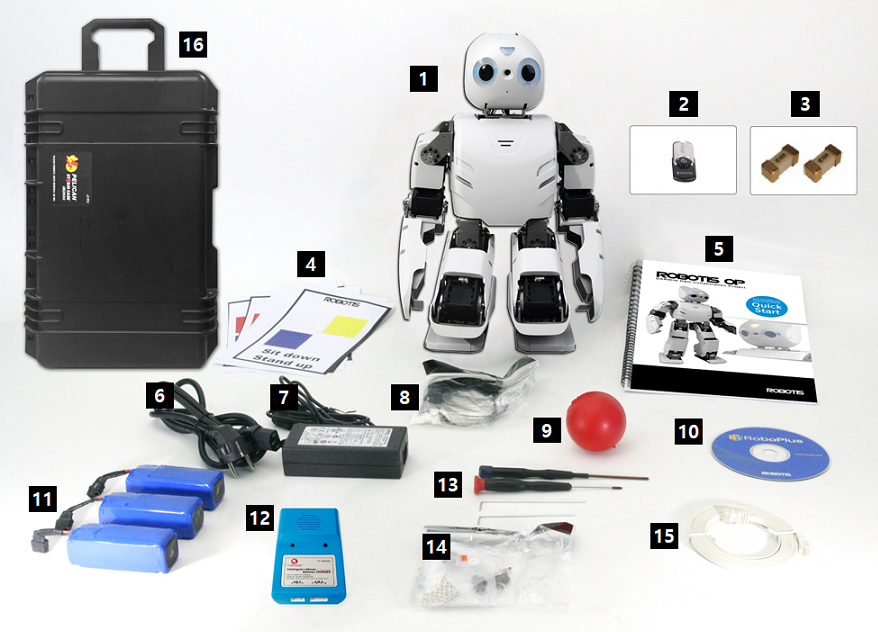
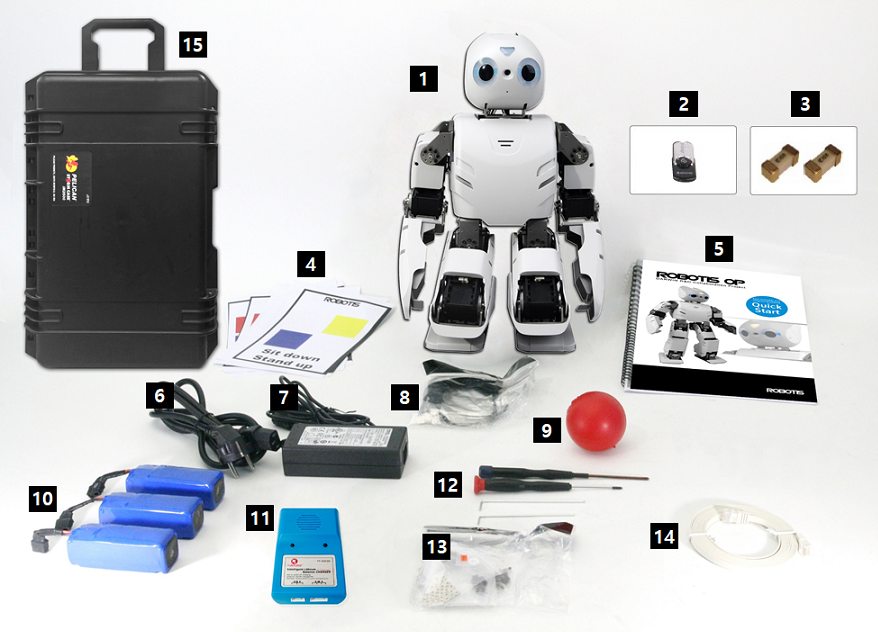
OM api updated

diff --git a/docs/en/platform/op2/getting_started.md b/docs/en/platform/op2/getting_started.md
@@ -91,13 +91,12 @@ Check your ROBOTIS OP2 package for the following items.
 | 7  | DC Power Supply                          |    1     |
 | 8  | Spare Cables                             |  1 pack  |
 | 9  | Red Ball                                 |    1     |
-| 10 | RoboPlus CD                              |    1     |
-| 11 | Battery Pack                             |    3     |
-| 12 | Battery Charger                          |    1     |
-| 13 | Wrench & Screw Driver                    |  1 set   |
-| 14 | Spare Bolts and Nuts                     |  1 pack  |
-| 15 | Ethernet Cable                           |    1     |
-| 16 | Hard Case                                |    1     |
+| 10 | Battery Pack                             |    3     |
+| 11 | Battery Charger                          |    1     |
+| 12 | Wrench & Screw Driver                    |  1 set   |
+| 13 | Spare Bolts and Nuts                     |  1 pack  |
+| 14 | Ethernet Cable                           |    1     |
+| 15 | Hard Case                                |    1     |
 
 ![](/assets/images/platform/op2/op2_004.png)
 

diff --git a/docs/en/software/robotis_manipulator_library/robotis_manipulator_library.md b/docs/en/software/robotis_manipulator_library/robotis_manipulator_library.md
@@ -238,6 +238,32 @@ Here is a list of all namespace members with links to the namespace documentatio
 # [Classes](#classes)
 
 ## [ChainingName](#chainingname)
+
+### robotis_manipulator::ChainingName Struct Reference
+
+```
+#include <robotis_manipulator_common.h>
+```
+> Definition at line 133 of file robotis_manipulator_common.h
+
+![](/assets/images/sw/api_references/chaining_name__coll__graph.png)
+> Collaboration diagram for robotis_manipulator::ChainingName
+
+#### Public Attributes
+
+|                Type | Name   |
+|--------------------:|:-------|
+|                Name | parent |
+| std::vector< Name > | child  |
+
+#### Member Data
+
+- std::vector\< Name \> robotis_manipulator::ChainingName::child
+  > Definition at line 136 of file robotis_manipulator_common.h
+- Name robotis_manipulator::ChainingName::parent
+  > Definition at line 135 of file robotis_manipulator_common.h
+
+
 ## [Component](#component)
 ## [CustomJointTrajectory](#customjointtrajectory)
 ## [CustomTaskTrajectory](#customtasktrajectory)
